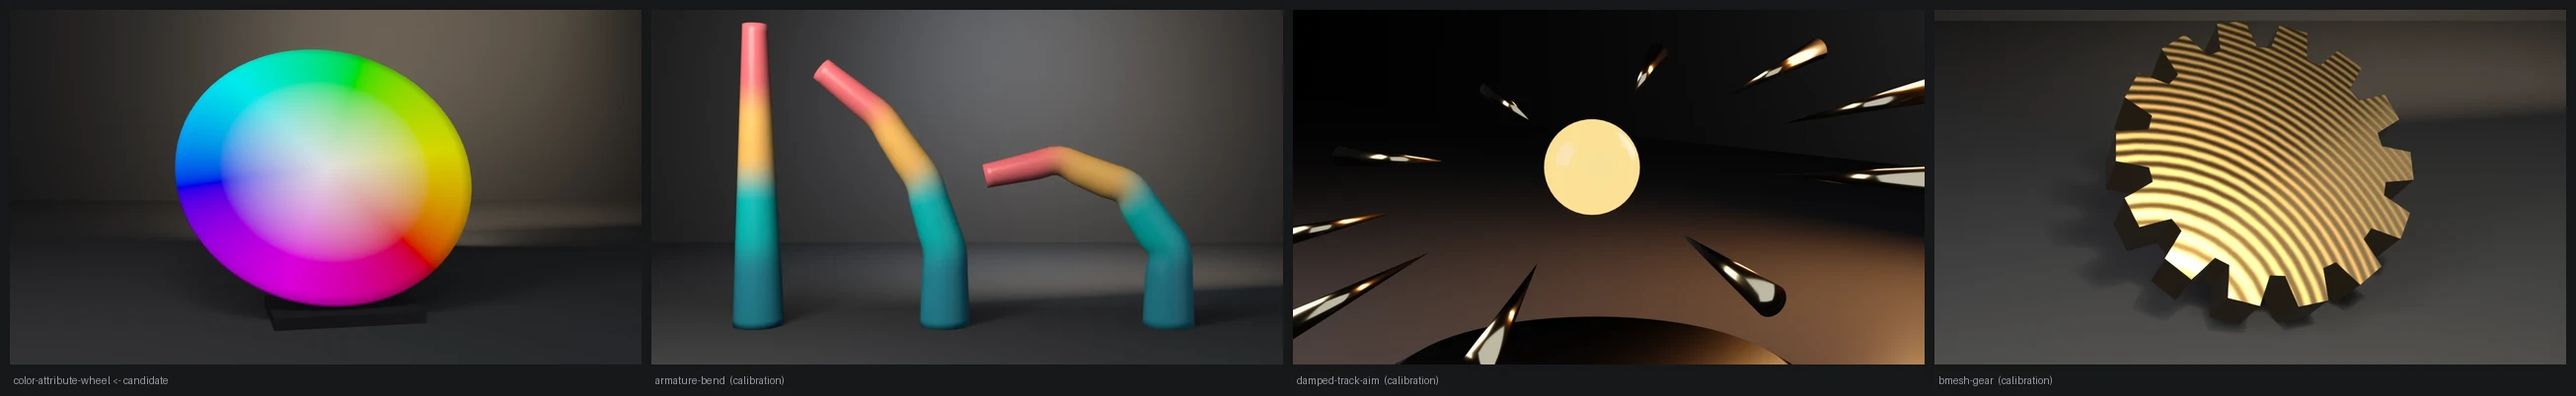
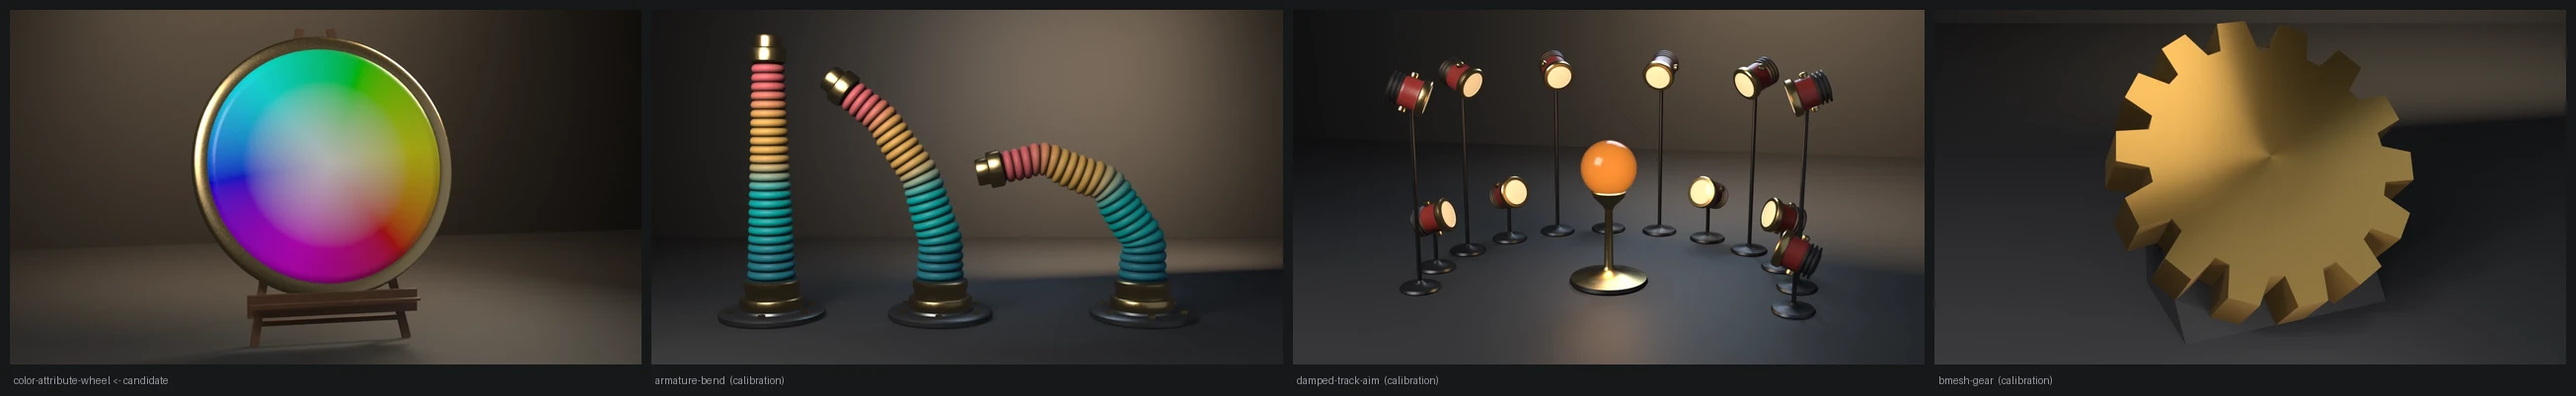
fix(examples): redesign color-attribute-wheel as a domed ceramic plate on a walnut easel
The flat board on a plinth read as a pale, washed-out oval. The render path
now domes the checked disc into a shallow plate. Only vertex positions move,
through one foreach_get/foreach_set after check(); the CORNER colours ride the
same loops, so the colours on the plate are the verified ones. It also gives
the plate a Solidify body, a turned brass bezel and a dark backing disc, and
stands it at a 14-degree lean on a walnut studio easel. The glaze is a satin
base under a thin clear coat, which the dome curves into a soft sheen. Key
energy drops from 320 to 230 and emission from 0.12 to 0.10, so the rim hues
stay saturated. The render path now runs the gallery_framing gate (exit 10),
which it previously skipped. Checks are unchanged.

Evidence (live runs, local):
- E:\Blender-Developer-Tools\.scratch\blender-5.2.1-windows-x64\blender.exe
  (Blender 5.2.1 LTS): check-only exit 0, verts=1009 faces=1008 loops=3960
  domain=CORNER active=True probes_ok=4. --point-domain exits 5 ("attribute
  domain/type = POINT/FLOAT_COLOR").
- E:\Blender-Developer-Tools\.scratch\blender-4.5.11-windows-x64\blender.exe
  (Blender 4.5.11 LTS): check exit 0 with the same numbers; the --output
  render path also exits 0.
- Framing: fill x=0.412 y=0.739, margins l=0.287 r=0.300 b=0.050 t=0.050.
- Contact sheet: candidate luma 0.262 / stage 0.204 / warmth +0.141 /
  sat 0.354, against armature-bend 0.243/0.192/-0.144/0.237, damped-track-aim
[…]

diff --git a/examples/color-attribute-wheel/color_attribute_wheel.py b/examples/color-attribute-wheel/color_attribute_wheel.py
@@ -25,6 +25,11 @@ import bpy, bmesh, sys, os, math, colorsys, argparse
 from array import array
 from mathutils import Vector
 
+# Shared Layer 1 framing measurement (render path only) — see
+# gallery_framing.py for the __file__-relative import shim this relies on.
+sys.path.insert(0, os.path.join(os.path.dirname(os.path.abspath(__file__)), os.pardir))
+import gallery_framing  # noqa: E402
+
 RINGS = 14
 SEGMENTS = 72
 R_OUTER = 1.6
@@ -163,14 +168,18 @@ def build_material():
     attr_node.attribute_type = 'GEOMETRY'
     attr_node.attribute_name = ATTR_NAME
     nt.links.new(attr_node.outputs["Color"], bsdf.inputs["Base Color"])
-    if "Emission Color" in bsdf.inputs:  # Principled gained built-in emission in 4.x+
-        nt.links.new(attr_node.outputs["Color"], bsdf.inputs["Emission Color"])
-        bsdf.inputs["Emission Strength"].default_value = 0.12
-    # fully matte: any specular component reflects the wall/floor horizon as
-    # a hard line across the disc face
-    bsdf.inputs["Roughness"].default_value = 0.85
+    # glazed ceramic: a satin base under a thin clear coat. The plate is domed
+    # (render path), so the coat's reflection is a soft curved sheen, never
+    # the hard horizon line a flat mirror-glaze would draw across the face.
+    bsdf.inputs["Roughness"].default_value = 0.42
     if "Specular IOR Level" in bsdf.inputs:
-        bsdf.inputs["Specular IOR Level"].default_value = 0.0
+        bsdf.inputs["Specular IOR Level"].default_value = 0.25
+    if "Coat Weight" in bsdf.inputs:
+        bsdf.inputs["Coat Weight"].default_value = 0.35
+        bsdf.inputs["Coat Roughness"].default_value = 0.18
+    if "Emission Color" in bsdf.inputs:  # a faint self-glow keeps the far hues from sinking
+        nt.links.new(attr_node.outputs["Color"], bsdf.inputs["Emission Color"])
+        bsdf.inputs["Emission Strength"].default_value = 0.10
 
     # The step AI code most often skips: the attribute must actually be wired
     # into the shader, not just present on the mesh.
@@ -186,66 +195,156 @@ def build_material():
     return mat
 
 
+BEZEL_OUT = R_OUTER + 0.20     # brass bezel outer radius (render path)
+DOME = 0.11                     # plate dome height at the centre (render path)
+TILT = math.radians(76)         # plate leans back 14 degrees on the easel
+
+
+def _lathe(bm, profile, segs=96):
+    """Revolve an (r, z) profile about local Z (bottom -> out -> up -> in)."""
+    rings = [[bm.verts.new((r * math.cos(2 * math.pi * i / segs),
+                            r * math.sin(2 * math.pi * i / segs), z)) for i in range(segs)]
+             for r, z in profile]
+    for a, b in zip(rings, rings[1:] + rings[:1]):
+        for i in range(segs):
+            j = (i + 1) % segs
+            f = bm.faces.new((a[i], a[j], b[j], b[i]))
+            f.smooth = True
+
+
+def _beam(bm, p0, p1, w, d):
+    """A w x d rectangular beam from p0 to p1 (world space)."""
+    p0, p1 = Vector(p0), Vector(p1)
+    axis = p1 - p0
+    res = bmesh.ops.create_cube(bm, size=1.0)
+    rot = Vector((0, 0, 1)).rotation_difference(axis.normalized()).to_matrix()
+    for v in res["verts"]:
+        v.co = rot @ Vector((v.co.x * w, v.co.y * d, v.co.z * axis.length)) + (p0 + p1) / 2
+
+
+def _mat(name, base, rough, metal=0.0, noise=None, coat=0.0):
+    m = bpy.data.materials.new(name)
+    m.use_nodes = True
+    nt = m.node_tree
+    b = nt.nodes["Principled BSDF"]
+    b.inputs["Base Color"].default_value = (*base, 1.0)
+    b.inputs["Roughness"].default_value = rough
+    b.inputs["Metallic"].default_value = metal
+    if coat and "Coat Weight" in b.inputs:
+        b.inputs["Coat Weight"].default_value = coat
+    if noise:
+        # grain/handling wear: noise-mottled colour and roughness, never flat
+        scale, amount, stretch = noise
+        coord = nt.nodes.new("ShaderNodeTexCoord")
+        mapping = nt.nodes.new("ShaderNodeMapping")
+        mapping.inputs["Scale"].default_value = stretch
+        nt.links.new(coord.outputs["Object"], mapping.inputs["Vector"])
+        tex = nt.nodes.new("ShaderNodeTexNoise")
+        tex.inputs["Scale"].default_value = scale
+        tex.inputs["Detail"].default_value = 8.0
+        nt.links.new(mapping.outputs["Vector"], tex.inputs["Vector"])
+        ramp = nt.nodes.new("ShaderNodeValToRGB")
+        ramp.color_ramp.elements[0].color = tuple(c * (1 - amount) for c in base) + (1.0,)
+        ramp.color_ramp.elements[1].color = tuple(min(1.0, c * (1 + amount)) for c in base) + (1.0,)
+        nt.links.new(tex.outputs["Fac"], ramp.inputs["Fac"])
+        nt.links.new(ramp.outputs["Color"], b.inputs["Base Color"])
+        rmap = nt.nodes.new("ShaderNodeMapRange")
+        rmap.inputs["To Min"].default_value = rough - 0.08
+        rmap.inputs["To Max"].default_value = rough + 0.12
+        nt.links.new(tex.outputs["Fac"], rmap.inputs["Value"])
+        nt.links.new(rmap.outputs["Result"], b.inputs["Roughness"])
+    return m
+
+
 def render_still(obj, path, engine):
     scene = bpy.context.scene
-    for poly in obj.data.polygons:
+    me = obj.data
+    for poly in me.polygons:
         poly.use_smooth = True
 
     mat = build_material()
     if mat is None:
-        return False
-    obj.data.materials.append(mat)
-    # stand the disc up toward the camera like an easel: the wheel is the
-    # subject, so it should present nearly face-on and fill the frame instead
-    # of lying foreshortened on the floor.
-    # render-only: a Solidify body so the disc reads as a painted board, not
-    # a zero-thickness sheet, resting on a dark plinth and propped from
-    # behind by a strut, easel-style, instead of hovering above the floor.
-    disc_t = 0.05
-    plinth_h = 0.12
-    tilt = math.radians(52)
-    solid = obj.modifiers.new("Board", 'SOLIDIFY')
-    solid.thickness = disc_t
+        return 9
+    me.materials.append(mat)
+
+    # render-only: dome the checked flat disc into a shallow glazed plate.
+    # Only positions move; the CORNER attribute rides the same loops, so the
+    # colours the check verified are the colours on the plate.
+    co = array('f', [0.0]) * (len(me.vertices) * 3)
+    me.vertices.foreach_get("co", co)
+    for i in range(len(me.vertices)):
+        x, y = co[3 * i], co[3 * i + 1]
+        co[3 * i + 2] = DOME * (1.0 - (x * x + y * y) / (R_OUTER * R_OUTER))
+    me.vertices.foreach_set("co", co)
+    me.update()
+    solid = obj.modifiers.new("Body", 'SOLIDIFY')
+    solid.thickness = 0.06
     solid.offset = -1.0
-    # lowest rim point sits R_OUTER * sin(tilt) below the centre, and the
-    # board's back face another disc_t * cos(tilt) below that
-    obj.location = (0.0, 0.0, plinth_h + R_OUTER * math.sin(tilt) + disc_t * math.cos(tilt))
-    obj.rotation_euler = (tilt, 0.0, math.radians(10))
 
-    stand_mat = bpy.data.materials.new("Stand")
-    stand_mat.use_nodes = True
-    sb = stand_mat.node_tree.nodes["Principled BSDF"]
-    sb.inputs["Base Color"].default_value = (0.012, 0.012, 0.014, 1.0)
-    sb.inputs["Roughness"].default_value = 0.45
+    brass = _mat("Brass", (0.92, 0.66, 0.30), 0.32, metal=1.0, noise=(40.0, 0.07, (1, 1, 1)))
+    wood = _mat("Walnut", (0.20, 0.095, 0.045), 0.5, noise=(6.0, 0.45, (1.0, 1.0, 14.0)),
+                coat=0.2)
+    backing = _mat("Backing", (0.03, 0.03, 0.035), 0.55)
 
-    def stand_part(name, build):
-        me = bpy.data.meshes.new(name)
-        bm = bmesh.new()
-        try:
-            build(bm)
-            bm.to_mesh(me)
-        finally:
-            bm.free()
-        me.materials.append(stand_mat)
-        ob = bpy.data.objects.new(name, me)
-        scene.collection.objects.link(ob)
-        return ob
+    # brass bezel and a dark backing plate, built in plate space
+    bezel_me = bpy.data.meshes.new("Bezel")
+    bm = bmesh.new()
+    try:
+        # rolled lip over the plate edge, a flat band, a turned-down skirt
+        _lathe(bm, [(R_OUTER - 0.02, -0.10), (BEZEL_OUT, -0.10), (BEZEL_OUT + 0.01, -0.06),
+                    (BEZEL_OUT, 0.02), (BEZEL_OUT - 0.04, 0.05), (R_OUTER + 0.03, 0.055),
+                    (R_OUTER - 0.03, 0.035), (R_OUTER - 0.05, 0.005)])
+        bm.to_mesh(bezel_me)
+    finally:
+        bm.free()
+    bezel_me.materials.append(brass)
+    bezel = bpy.data.objects.new("Bezel", bezel_me)
+    scene.collection.objects.link(bezel)
+    back_me = bpy.data.meshes.new("Backing")
+    bm = bmesh.new()
+    try:
+        bmesh.ops.create_circle(bm, cap_ends=True, segments=96, radius=BEZEL_OUT - 0.02)
+        bmesh.ops.translate(bm, verts=bm.verts, vec=(0.0, 0.0, -0.105))
+        bmesh.ops.reverse_faces(bm, faces=bm.faces)
+        bm.to_mesh(back_me)
+    finally:
+        bm.free()
+    back_me.materials.append(backing)
+    back = bpy.data.objects.new("Backing", back_me)
+    scene.collection.objects.link(back)
 
+    # the plate stands on a walnut easel, leaning back against its front legs
+    ledge_z = 0.55
+    zc = ledge_z + 0.06 + BEZEL_OUT * math.sin(TILT)
+    for ob in (obj, bezel, back):
+        ob.location = (0.0, 0.0, zc)
+        ob.rotation_euler = (TILT, 0.0, 0.0)
     bpy.context.view_layer.update()
-    mw = obj.matrix_world
-    rim_low = mw @ Vector((0.0, -R_OUTER, 0.0))
-    plinth = stand_part("Plinth", lambda bm: bmesh.ops.create_cube(bm, size=1.0))
-    plinth.scale = (1.5, 0.9, plinth_h)
-    plinth.location = (rim_low.x, rim_low.y + 0.25, plinth_h / 2.0)
-    plinth.rotation_euler = (0.0, 0.0, math.radians(10))
-    # the strut runs from the board's back, above centre, down to the plinth
-    top = mw @ Vector((0.0, 0.45, -disc_t))
-    foot = Vector((top.x, top.y + 0.95, plinth_h))
-    span = top - foot
-    strut = stand_part("Strut", lambda bm: bmesh.ops.create_cone(
-        bm, cap_ends=True, segments=16, radius1=0.035, radius2=0.035, depth=span.length))
-    strut.location = (top + foot) / 2.0
-    strut.rotation_euler = Vector((0.0, 0.0, 1.0)).rotation_difference(span).to_euler()
+    # the plate's mid-plane: y = cot(TILT) * (z - zc); the back sits behind it
+    cot = math.cos(TILT) / math.sin(TILT)
+
+    def plane_y(z):
+        return cot * (z - zc)
+
+    easel_me = bpy.data.meshes.new("Easel")
+    bm = bmesh.new()
+    try:
+        top = zc + BEZEL_OUT * math.sin(TILT) + 0.12
+        for sx in (-1.0, 1.0):
+            _beam(bm, (sx * 1.05, plane_y(0.0) + 0.22, 0.0),
+                  (sx * 0.22, plane_y(top) + 0.22, top), 0.11, 0.07)
+        _beam(bm, (0.0, 1.9, 0.0), (0.0, plane_y(top - 0.3) + 0.32, top - 0.3), 0.10, 0.07)
+        # ledge the plate rests on, with a front lip, and a cross rail
+        ly = plane_y(ledge_z) - 0.02
+        _beam(bm, (-1.15, ly, ledge_z), (1.15, ly, ledge_z), 0.30, 0.07)
+        _beam(bm, (-1.15, ly - 0.14, ledge_z + 0.035), (1.15, ly - 0.14, ledge_z + 0.035), 0.03, 0.10)
+        _beam(bm, (-0.95, plane_y(0.28) + 0.23, 0.28), (0.95, plane_y(0.28) + 0.23, 0.28), 0.07, 0.06)
+        bm.to_mesh(easel_me)
+    finally:
+        bm.free()
+    easel_me.materials.append(wood)
+    easel = bpy.data.objects.new("Easel", easel_me)
+    scene.collection.objects.link(easel)
 
     floor_me = bpy.data.meshes.new("Floor")
     bm = bmesh.new()
@@ -263,7 +362,7 @@ def render_still(obj, path, engine):
     floor = bpy.data.objects.new("Floor", floor_me)
     scene.collection.objects.link(floor)
     wall = bpy.data.objects.new("Wall", floor_me.copy())
-    wall.location = (0.0, 7.0, 0.0)
+    wall.location = (0.0, 9.0, 0.0)
     wall.rotation_euler = (math.radians(90), 0.0, 0.0)
     scene.collection.objects.link(wall)
 
@@ -272,35 +371,29 @@ def render_still(obj, path, engine):
     world.node_tree.nodes["Background"].inputs["Color"].default_value = (0.02, 0.021, 0.025, 1.0)
     scene.world = world
 
-    def light(name, loc, energy, size, col, rot):
+    def light(name, loc, energy, size, col, at):
         ld = bpy.data.lights.new(name, 'AREA')
         ld.energy = energy; ld.size = size; ld.color = col
         ob = bpy.data.objects.new(name, ld)
         ob.location = loc
-        ob.rotation_euler = tuple(math.radians(a) for a in rot)
+        ob.rotation_euler = (Vector(at) - Vector(loc)).to_track_quat('-Z', 'Y').to_euler()
         scene.collection.objects.link(ob)
 
-    # a bright soft key from above reads the hue ring clearly; a low cool fill
-    # keeps the shadow side legible; a faint warm rim separates the disc edge
-    # from the dark backdrop without washing out the attribute colors.
-    light("Key", (-2.0, -3.0, 5.5), 320.0, 8.0, (1.0, 0.98, 0.96), (58, 0, -28))
-    light("Fill", (4.5, -2.5, 1.6), 90.0, 9.0, (0.78, 0.86, 1.0), (68, 0, 55))
-    light("Rim", (0.5, 3.6, 2.2), 170.0, 4.0, (1.0, 0.78, 0.55), (-70, 0, 175))
-    # a warm wedge raking the back wall — the falloff pool behind the subject
-    # the rest of the gallery stages against.
-    # placed between the disc and the back wall so it can only rake the wall:
-    # from any position in front, its grazing terminator draws a hard line
-    # across the flat disc face.
-    light("Wedge", (2.0, 5.2, 3.6), 220.0, 6.0, (1.0, 0.76, 0.5), (-68, 0, 190))
+    centre = (0.0, 0.0, zc)
+    # soft key high left, sized so the glaze sheen is a broad soft highlight;
+    # a cool low fill; a warm rim on the brass; the wedge rakes the back wall
+    light("Key", (-4.2, -3.6, 6.0), 230.0, 3.0, (1.0, 0.96, 0.9), centre)
+    light("Fill", (4.5, -3.0, 1.8), 70.0, 9.0, (0.78, 0.86, 1.0), centre)
+    light("Rim", (3.4, 2.4, 5.2), 420.0, 2.5, (1.0, 0.82, 0.6), (0.0, 0.0, zc + 1.2))
+    light("Wedge", (0.5, 5.2, 5.5), 650.0, 8.0, (1.0, 0.70, 0.42), (1.5, 9.0, 1.5))
 
     aim = bpy.data.objects.new("Aim", None)
-    aim.location = obj.location - Vector((0.0, 0.0, 0.2))
+    aim.location = (0.0, 0.0, zc - 0.30)
     scene.collection.objects.link(aim)
-
     cam_data = bpy.data.cameras.new("Cam")
-    cam_data.lens = 50.0
+    cam_data.lens = 57.0
     cam = bpy.data.objects.new("Cam", cam_data)
-    cam.location = (0.0, -9.4, 2.5)
+    cam.location = (-3.0, -13.2, 3.3)
     con = cam.constraints.new('TRACK_TO')
     con.target = aim
     con.track_axis = 'TRACK_NEGATIVE_Z'
@@ -323,8 +416,15 @@ def render_still(obj, path, engine):
     # AgX (the 4.x/5.x default) compresses bright regions toward white, which
     # would hide exactly the saturation gradient this example is showing off.
     scene.view_settings.view_transform = 'Standard'
+    bpy.context.view_layer.update()
+    # Layer 1 framing gate before the beauty render (exit 10 on violation)
+    fcode = gallery_framing.check_framing(scene, cam, hero=[obj, bezel],
+                                          elements=[obj, bezel, back, easel],
+                                          stage=[floor, wall])
+    if fcode:
+        return fcode
     bpy.ops.render.render(write_still=True)
-    return os.path.exists(path) and os.path.getsize(path) > 0
+    return 0 if os.path.exists(path) and os.path.getsize(path) > 0 else 9
 
 
 def main():
@@ -343,9 +443,11 @@ def main():
         return code
 
     if args.output:
-        if not render_still(obj, os.path.abspath(args.output), args.engine):
-            print("ERROR: render produced no file", file=sys.stderr)
-            return 9
+        rcode = render_still(obj, os.path.abspath(args.output), args.engine)
+        if rcode:
+            if rcode == 9:
+                print("ERROR: render produced no file", file=sys.stderr)
+            return rcode
         print(f"rendered still {args.output}")
 
     print("color-attribute-wheel OK")

diff --git a/examples/color-attribute-wheel/README.md b/examples/color-attribute-wheel/README.md
@@ -21,13 +21,15 @@ Color, not just present in the node tree.
 
 ## Staging
 
-The disc is zero-thickness, and the still used to show it as a paper-thin oval
-hovering 8 cm above the floor. The render path now gives it a render-only
-Solidify body (5 cm) and stands it at the same 52° lean on a dark plinth, with
-a strut behind it, easel-style. The height is computed so the lowest point of
-the rim rests on the plinth. The mesh `check()` asserts is unchanged: the
-modifier is added after the check and only in the render path. Measured
-framing on 5.2.1: fill 0.794 y, every margin ≥ 0.094.
+The checked disc is flat and zero-thickness. The render path — only after `check()`,
+so the verified mesh is untouched until then — domes it into a shallow glazed plate
+(one `foreach_get`/`foreach_set` over vertex positions; the CORNER colours ride the
+same loops, so the colours on the plate are the colours the check verified), gives it a
+Solidify body, rings it with a turned brass bezel over a dark backing disc, and stands it
+at a 14° lean on a walnut studio easel. The glaze is a satin base under a thin clear
+coat; the dome curves the coat's reflection into a soft sheen instead of the hard
+horizon line a flat glaze draws. The path gates framing through`
+examples/gallery_framing.py` (exit 10): fill 0.739 y, every margin ≥ 0.050.
 
 ## Run
 
@@ -60,6 +62,7 @@ against it.
 | 7 | `active_color` not set |
 | 8 | Probe loop color off HSV closed form |
 | 9 | `--output` produced no file |
+| 10 | Framing gate violation on the `--output` path (`gallery_framing`) |
 
 The `blender-smoke` workflow runs the check on Blender 5.2 LTS and 4.5 LTS
 (5.1 on the weekly cron, the `needs-5.1` PR label, or manual dispatch).

diff --git a/README.md b/README.md
@@ -282,7 +282,7 @@ the compositor on and is exactly zero with it off — and that EEVEE has no `use
 </tr>
 <tr>
 <td width="46%" valign="middle">
-<a href="examples/color-attribute-wheel/"><img src="examples/color-attribute-wheel/preview.webp" alt="Color attribute wheel: an HSV color wheel board with a white center fading into a vivid rainbow rim, leaning back on a dark plinth on a dark studio floor with a warm light pool behind it" /></a>
+<a href="examples/color-attribute-wheel/"><img src="examples/color-attribute-wheel/preview.webp" alt="Color attribute wheel: a domed ceramic HSV color wheel plate with a white center fading into a vivid rainbow rim, ringed in brass and standing on a walnut easel on a dark studio floor with a warm light pool behind it" /></a>
 </td>
 <td valign="middle">
 
